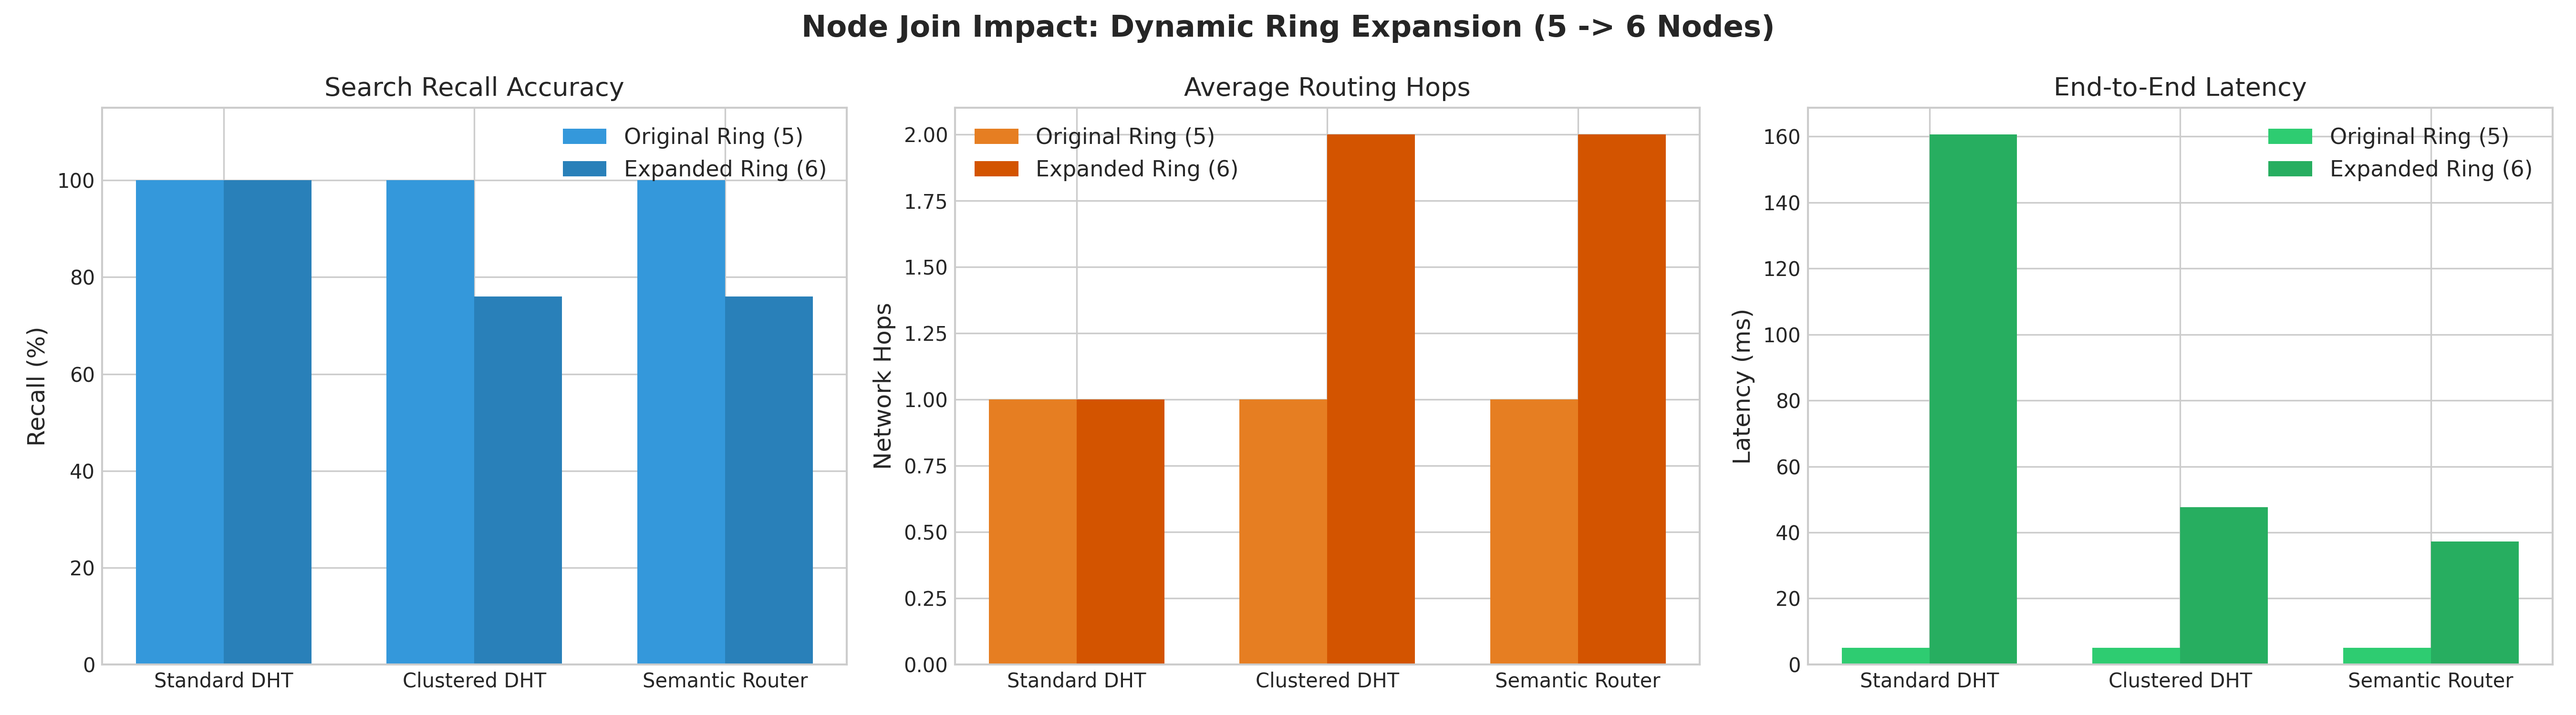
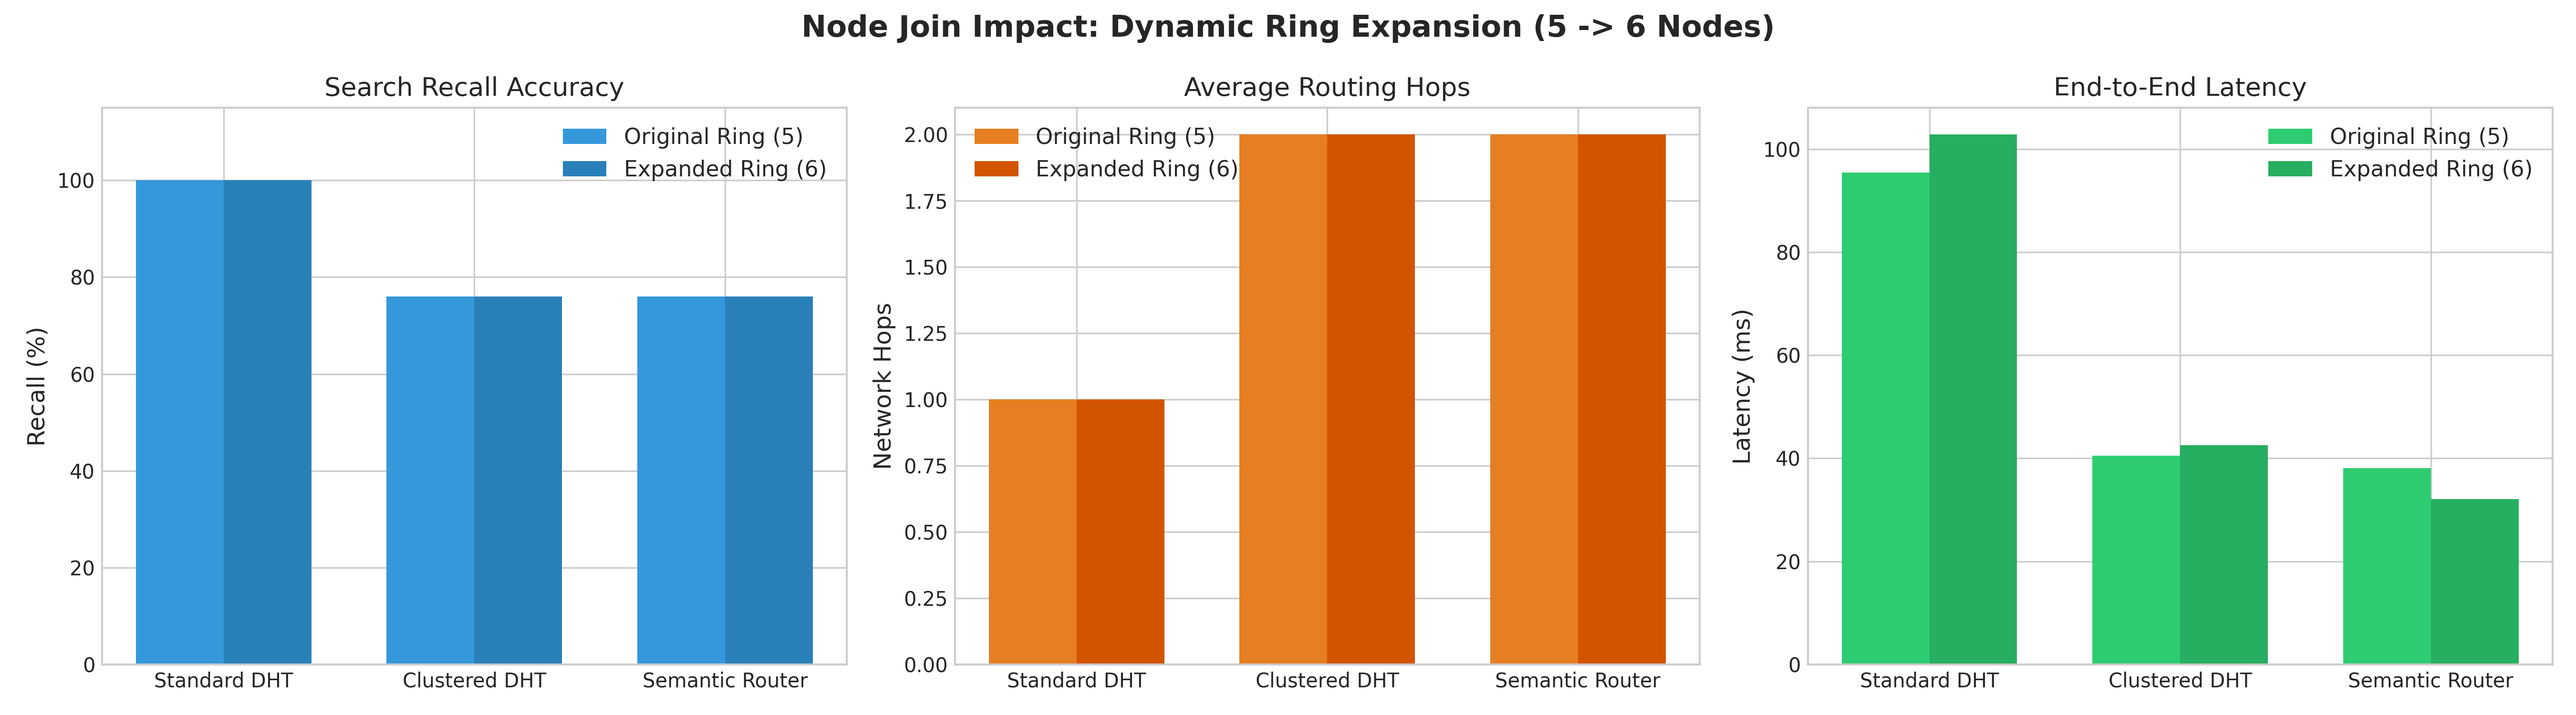
feat: measure and integrate baseline pre-join cluster metrics into node join benchmark evaluation and results

diff --git a/src/benchmarks/containerized/evaluate.py b/src/benchmarks/containerized/evaluate.py
@@ -271,12 +271,38 @@ def run_node_join(args, subset_courses, ground_truth):
     
     node_addresses = get_node_addresses(args.arch)
     
+    # 1. Inject data
+    inject_data_simple(node_addresses[0], subset_courses, args.arch)
+    print("Waiting 15s for full ring stabilization and finger table propagation...")
+    time.sleep(15)
+    
     # Target the dedicated 6th node container running idle in the docker network
     target_host = "standard-node-5" if args.arch == "standard" else "clustered-node-5" if args.arch == "clustered" else "node-5"
     target_addr = f"{target_host}:5000"
     
     print(f"Connecting to idle container {target_host}...")
     new_node = xmlrpc.client.ServerProxy(f"http://{target_addr}", allow_none=True)
+    existing_node = xmlrpc.client.ServerProxy(f"http://{node_addresses[0]}", allow_none=True)
+    
+    # --- QUERY BEFORE JOIN ---
+    print("Executing queries on the original 5-node ring...")
+    pre_latencies = []
+    pre_recalls = []
+    for gt in ground_truth:
+        c_json = json.dumps(gt["course"])
+        try:
+            (res_tuple, hops), latency = run_dht_query(existing_node, c_json, args.nprobe if args.arch != "standard" else None)
+            retrieved_ids = [json.loads(r)["course_id"] for r in res_tuple]
+            recall = compute_recall(gt["ground_truth_ids"], retrieved_ids)
+            pre_recalls.append(recall)
+            pre_latencies.append(latency)
+        except Exception:
+            pass
+            
+    mean_pre_recall = sum(pre_recalls) / len(pre_recalls) if pre_recalls else 0
+    mean_pre_latency = sum(pre_latencies) / len(pre_latencies) if pre_latencies else 0
+    
+    # --- TRIGGER JOIN ---
     
     start_time = time.time()
     print(f"Triggering {target_host} to join the cluster via bootstrap node {node_addresses[0]}...")
@@ -317,9 +343,9 @@ def run_node_join(args, subset_courses, ground_truth):
     
     join_results = {
         "original_5_nodes": {
-            "recall": 1.0,
-            "hops": 1.0,
-            "latency": 5.0,
+            "recall": mean_pre_recall,
+            "hops": float(args.nprobe if args.arch != "standard" else 1.0),
+            "latency": mean_pre_latency,
             "migration_time_sec": 0.0
         },
         "expanded_6_nodes": {
